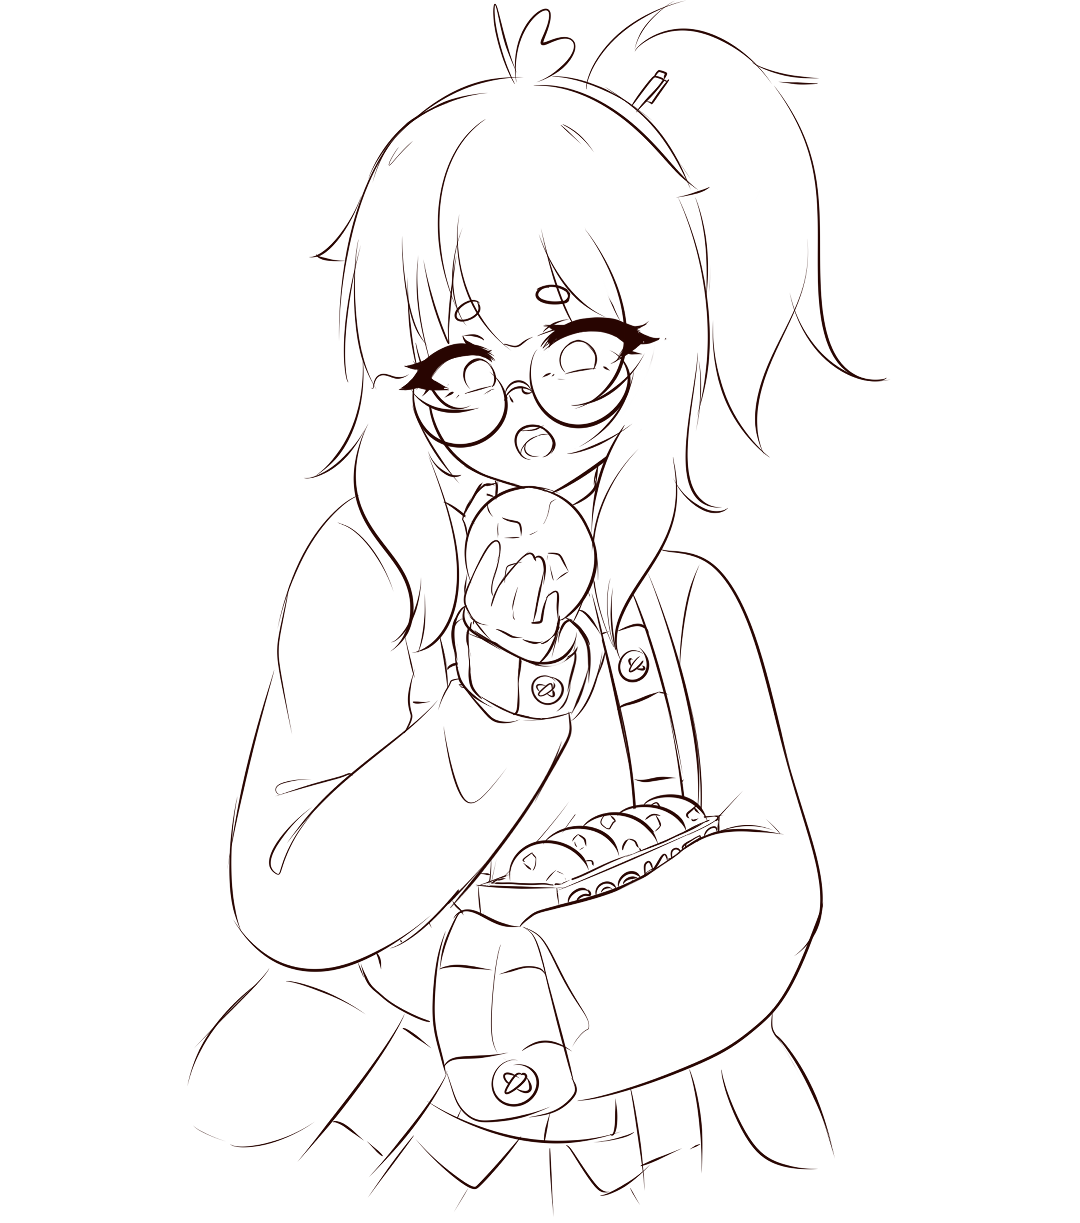
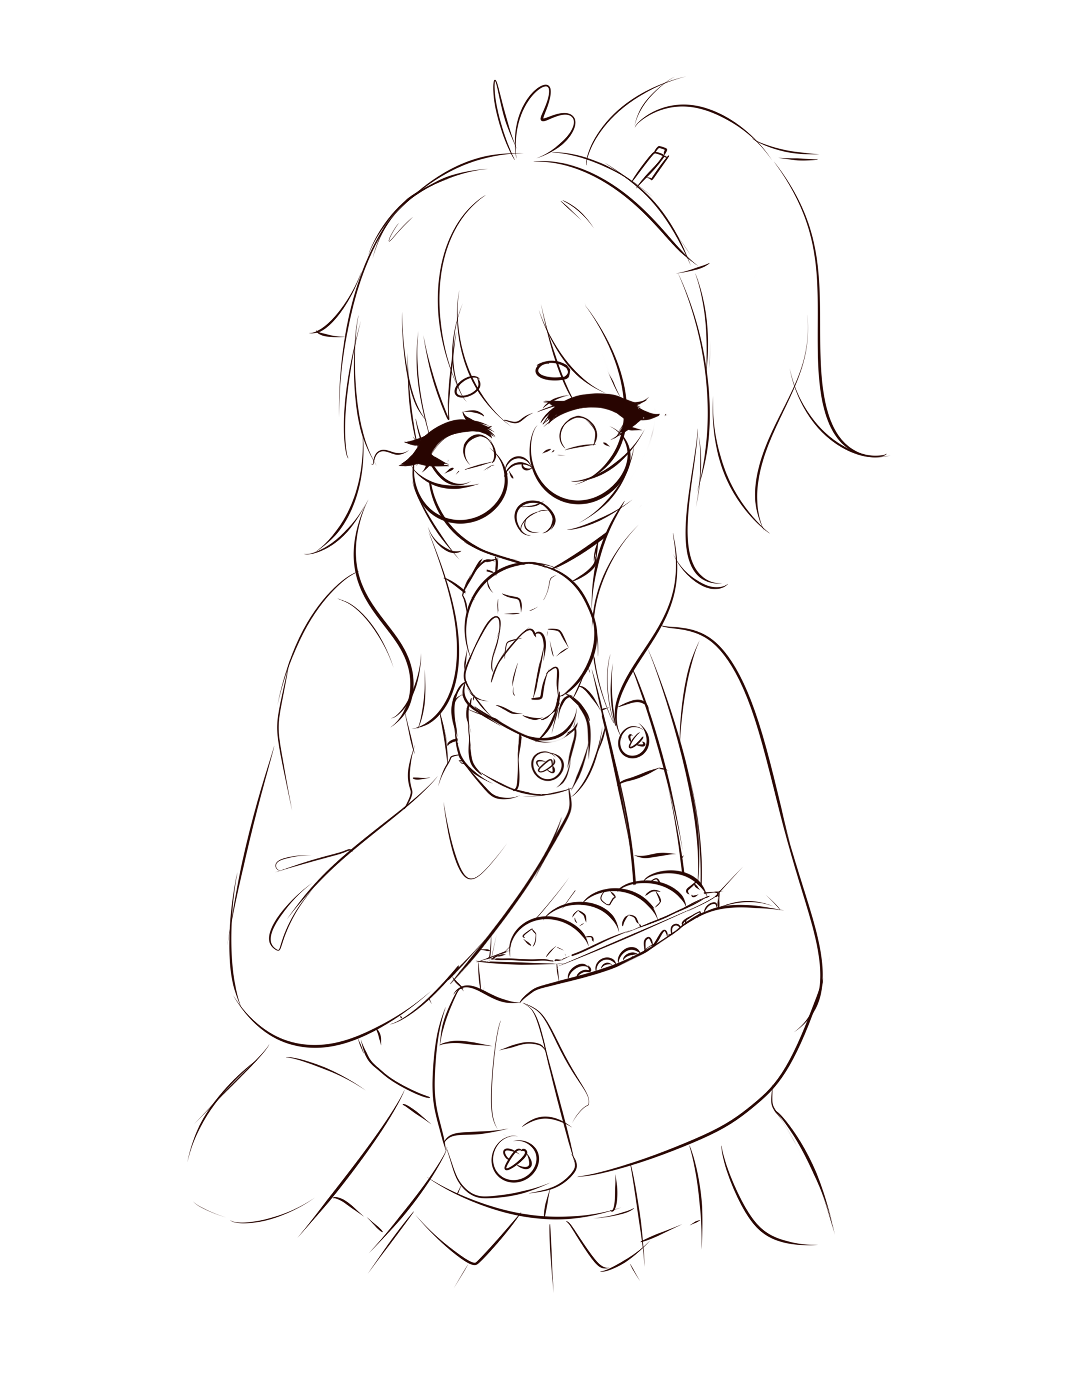
More night mode handling

diff --git a/wwwroot/css/site.css b/wwwroot/css/site.css
@@ -157,6 +157,10 @@ h4, h5 {
     }
   }
 
+.athena {
+    filter: var(--athena-filter) !important;
+}
+
 #site-nav {
     font-size: 2.5em;
     float: right;
@@ -326,8 +330,8 @@ select,
 .form-control,
 .form-control:focus,
 .form-control:read-only {
-    color: #280501;
-    background-color: #DDD7D6;
+    color: var(--input-foreground-colour);
+    background-color: var(--input-background-colour);
     border: 2px solid transparent !important;
     transition: all .2s;
     scrollbar-color: #280501 #DDD7D6;
